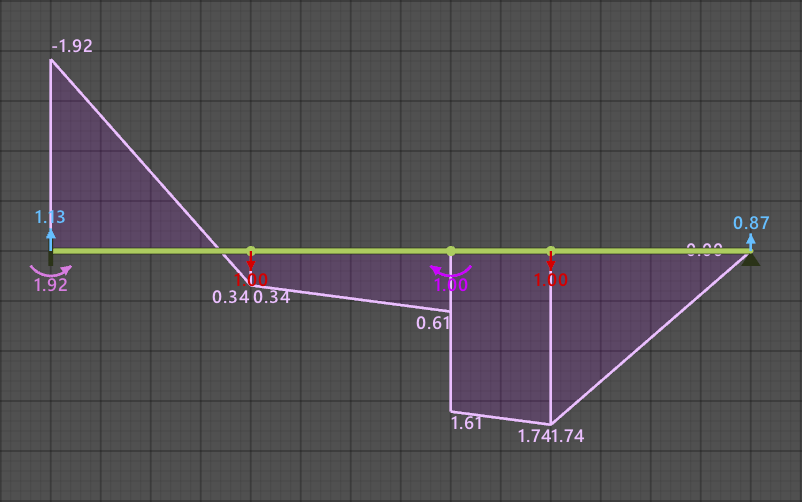
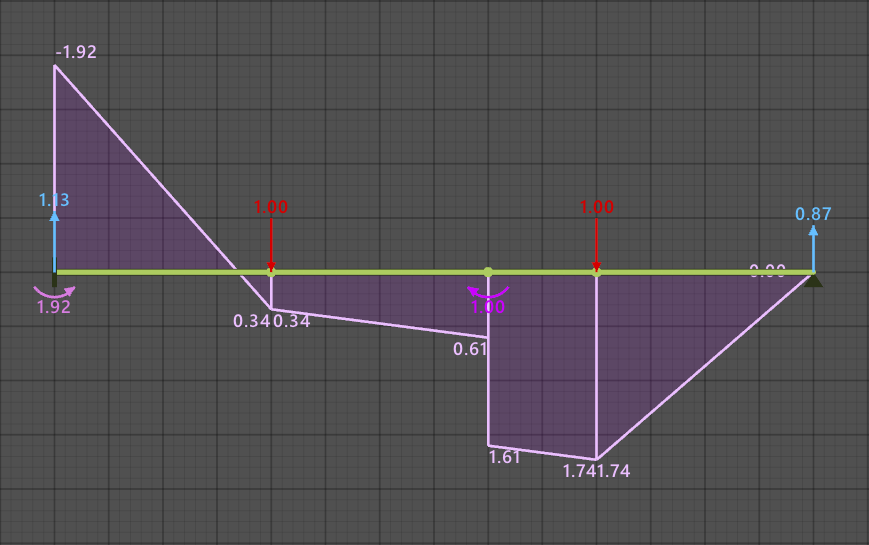
Preparando para release

diff --git a/include/interface/utils.h b/include/interface/utils.h
@@ -223,7 +223,12 @@ void drawArrow(Vector2 position, Vector2 size, bool inward, float arrowLength, f
         Vector2 textSize = Vector2{textSizeOri.x, textSizeOri.y * .6f};
         Vector2 textPositionWorld = Vector2{endPosition.x + offset.x, endPosition.y + offset.y};
         Vector2 textPosition = Vector2Subtract(GetWorldToScreen2D(textPositionWorld, camera), Vector2Scale(textSize, .5f));
-        Vector2 textCenterOffset = FindIntersection(textSize, size);
+        Vector2 textCenterOffset;
+        if (!inward){
+            textCenterOffset = FindIntersection(textSize, size);
+        }else{
+            textCenterOffset = Vector2Scale(FindIntersection(textSize, size), -1);
+        }
         textPosition = Vector2{textPosition.x + textCenterOffset.x, textPosition.y - textCenterOffset.y};
         //DrawRectangleLines(textPosition.x, textPosition.y, textSize.x, textSize.y, YELLOW);
 	    DrawTextEx(fontTtf, annotation, Vector2{textPosition.x, textPosition.y - (textSizeOri.y - textSize.y)/2 - textSizeOri.y*.07f}, myFontSize, 1, color);

diff --git a/include/interface/load.h b/include/interface/load.h
@@ -36,7 +36,7 @@ PointLoad(Vector2 f, float m) : force(f), moment(m) {};
 
 
 void Draw(Vector2 position, Camera2D camera) const override{
-    drawFixedSizeAnnotadedArrow(position, force, loadScale, false, raioNo * 2, raioNo / 1, raioNo * 0.5f, forceColor, camera);
+    drawFixedSizeAnnotadedArrow(position, force, loadScale, true, raioNo * 2, raioNo / 1, raioNo * 0.5f, forceColor, camera);
     drawFixedSizeAnnotadedMoment(position, moment, raioNo * 5, raioNo * 2, raioNo / 1, raioNo * 0.5f, momentColor, camera);
 }
 
